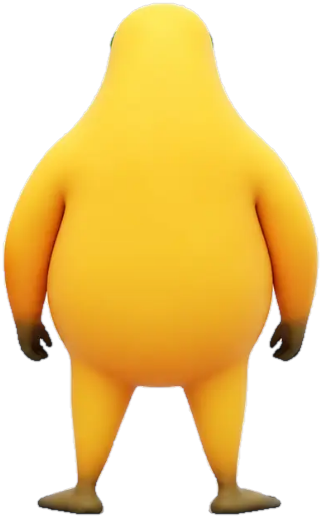
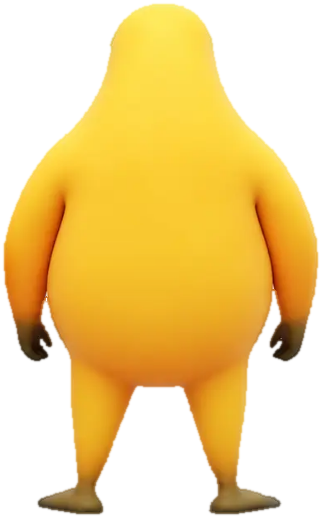
fix(deskpet): 修打滚身体残缺与白 halo、清掉三张皮肤的手指缝白点、去掉右键焦点环
- 打滚：阴影泛洪顺着肚皮上缘高光咬进身体（帧 046 吃掉 4663 个非背景像素，
  第二块 600px 正在肚皮顶缘）。加 SHADOW_BAND=70 只允许贴着角色最低点往上
  70 行以内当阴影吃；帧 046 非背景却透明 5748→4522、帧 030 6121→4827。
- 白 halo：alpha<0.02 的像素还留着原图纯白 RGB，LANCZOS 逐通道插值把白混进边缘。
  新增 fill_transparent() 把透明区 RGB 迭代填成邻域身体色；预乘缩放试过不能用。
- 三张皮肤：手指缝里混进的纯白背景（正面 10px、背面 3px、侧面 0），
  判据只看绝对颜色 min>230 & chroma<25 & 面积<300（奶白肚皮靠面积兜底）。
- 右键焦点环：用户截图那条线 238x313 物理像素 = 窗口 190x250 x DPR 1.25，
  颜色 (229,151,0) = 本机 DWM 强调色 0xFFD47800。petwin.css 加 outline:none。
- e2e 新增 P9j 三条，其中 P9j-3 是负对照（删掉规则后焦点环必须真的回来）。

diff --git a/src/renderer/src/petwin/petwin.css b/src/renderer/src/petwin/petwin.css
@@ -43,6 +43,15 @@ body,
   cursor: grabbing;
 }
 
+/* 去掉键盘焦点环（2026-11-12 用户反馈「一右键就多出来一个边框」）。
+   根节点是 role="button" + tabIndex={0}，右键时它的父级拿到焦点，
+   浏览器默认给 :focus-visible 画一圈 outline——在透明窗口里就是一圈方框，
+   看起来像桌宠被框住了。这个窗口没有键盘操作，焦点环没有意义。 */
+.petwin:focus,
+.petwin:focus-visible {
+  outline: none;
+}
+
 /* 皮肤包装层：铺满窗口，让里面的 SVG 撑满。
    与 styles.css 的 .pet-wrap 同源（那边只管 inline-flex 布局，尺寸归各处自己定）。 */
 .petwin .pet-wrap {

diff --git a/docs/状态.md b/docs/状态.md
@@ -6,6 +6,8 @@
 
 ## 一句话状态
 
+**2026-11-12 23:05（用户实测反馈的四条里前三条已修：打滚「身体残缺」、三张皮肤白缝、右键多出的边框，分支 `deskpet-action2`，未合并、未打包）**——用户（m03693）原话：「我一右键就会多出来一个边框；还有就是打滚扣的不好，身体有残缺；我现在又发现了一个之前没发现的，截图二，就是原版的图片上手部和手和肚皮的夹缝都有一点白色背景没扣好；还有就是我刚刚截图，灵动岛没有信息提示弹出」。**①打滚「身体残缺」不是帧被裁、也不是连通块被切成两块**（逐项排除过：82 帧贴边只有 3~27px 边缘细条、`alpha>0.5` 连通块无一帧有第二个 >50px 块、内部透明洞 0 像素、严判前景只被抠掉 0.05%、封闭背景块 ≥40px 的 0 个）。**真因**：阴影判据 `passable = bg | (ch<45 & mn>160 & mn<232)` 从四边泛洪，会**顺着肚皮上缘「亮且低彩度」的高光一路咬进身体**——帧 046 被吃掉 4663 个非背景像素，第二大的块 **600px 就在 `x220–342 y374–403`**，成品上正是「被啃掉一口」。**修法**：加 `SHADOW_BAND = 70`，只允许「贴着角色最低点往上 70 行」以内当阴影吃；帧 046「非背景却透明」**5748 → 4522**、帧 030 **6121 → 4827**。**②白 halo**：`cut()` 只对 `0.02<alpha<0.995` 窄带去污染、**alpha 更小的像素 RGB 仍是原图纯白**，而 `resize(LANCZOS)` 是逐通道插值（非预乘），白就被混进边缘。修法：新增 `fill_transparent(rgb, alpha, r=7, iters=3)` 把透明区 RGB 迭代填成邻域身体色。**预乘 alpha 缩放这条路试过、不能用**（白边像素 0→161）。**③三张皮肤的白缝**：`bean-photo.png` 里「不透明且 min>235 & chroma<20」只有 **7px**（`x36–272 y338–343`，正是左右手与肚皮之间那两条缝），侧图背图都是 0；把点放大到 12× 对照原图，确认**原图腋下本身就是一条白缝**（手臂与肚子之间背景透出），不是抠坏的。修法 `carve_photo_holes.py` 判据**只看绝对颜色不跟背景比**（`min>230 & chroma<25 & 面积<300`，奶白肚皮 7000+ 靠面积兜底），第一版拿「与透明区背景中位色差<6」只挖到 2 像素就收工——因为成品 PNG 的透明区虽然 alpha=0、**RGB 还留着身体黄**。改后：正面挖 10px、背面 3px、侧面 0。**④右键那圈边框 = Chromium 焦点环**：用户截图里那条线量出来 `x30..267 / y36..348`，正好 **238×313 物理像素** = 窗口 190×250 DIP × DPR 1.25；线色 **(229,151,0)**，本机 `DWM\AccentColor = 0xFFD47800` → RGB(212,120,0)。修法是 `petwin.css` 加 `.petwin:focus, .petwin:focus-visible { outline: none }`。**[实测] 三轮探针**：原始状态无边框、真鼠标点一下仍无边框、`deleteRule` 删掉那条 CSS 再按 Tab → `focusVisible=true outlineStyle=auto outlineColor=rgb(229,151,0)`、边框真的出现（`top54 bot113 left76`），**颜色与用户截图逐位相同**。**e2e 新增 P9j 三条**：源码断言规则存在 / Tab 后 computed `outlineStyle==='none'` / **负对照**（删规则后焦点环必须回来且颜色匹配 `229|212`）——只断言「现在没有边框」是假绿，删掉整段 CSS 也能过。**[实测]** `npm run typecheck` EXIT=0、`npm run build` EXIT=0；`e2e-deskpet-out` **PASS（72 过 / 0 败）**；回归 `e2e-deskpet` 33/0、`e2e-head-order` 14/0、`e2e-collapse-order` 22/0、`e2e-settings-shell` 51/0。**回归踩的坑**：`e2e-m2` 首次 FAIL，根因不是代码——`.tmp/e2e-userdata/.../prefs.json` 里 `petMode` 停在 `window`（上一批 e2e 留下的），岛仔按设计不渲染；改回 `island` 后立刻 PASS。**共享隔离目录的 e2e 之间会互相污染 `petMode`**。**未做**：用户第四条「灵动岛没有信息提示弹出」本轮只读了代码（`notifyStore.ts:185`、`clipboardStore.ts:75`、`notifyStore.ts:303` 有 `ScreenSketch: 'ms-screenclip:'`），**没有复现也没有修复**。SPEC 见 `docs/Spec/SPEC-deskpet-action.md` 第 7.10 节。
+
 **2026-11-12 21:30（第二支动作「打滚」已实现并通过自检，分支 `deskpet-action2`，未合并、未打包）**——用户（m03076）原话「就做挥手打滚」。**挥手没做成**：把整段 19.1 秒视频按 10fps 抽成 176 帧逐帧扫「手抬到最高点」，最高只有 y=364 的 0.2 秒一抬，而且是笑的时候抬手捂头的一部分，**没有一帧是来回摆动的挥手**，这支必须另找素材或 AI 生成。**打滚做成了**：同一段视频 12.0–18.4 秒「倒地→打滚→起身」，15fps 抽 96 帧，可用 **1–82**（83–96 是同一张站姿重复 14 遍，去掉），抠图后压成 **82 帧四行 sprite sheet `src/renderer/src/assets/pet/bean-roll.webp`（3960×880、24 列 × 4 行、每格 165×220、WebP q84、351330 B）**。**打滚不能照抄大笑的抠图参数（本轮真正难点）**：①躺下时肚皮正对光源高光亮到 `(254,235,203)`（min=203、chroma=41），会落进大笑用的宽松阈值里被整块挖掉，`BG_CHROMA` 必须 52→**20**、`BG_MIN` 170→**235**；②躺下时地面阴影与前景区连成一片，要单独从四边沿「低彩度+中低亮度」泛洪去掉（只吃前景 2.02%）；③脚边白渣用 `keep_largest` 只留最大连通块（897 像素/80 帧 → 319/62）。**代码接法**：`skinPhoto.tsx` 把「动作→素材参数」抽成 `ACTION_SPECS` 表并新增 `actionDurationMs(action)`，**不共用 `ACTION_DURATION_MS` 常量**——大笑 108/15=7.2 秒、打滚 82/15≈5.5 秒，写死一个会让短的空站 1.7 秒（P9i-4 守这条）。触发入口放右键菜单「再来一次大笑」/「打个滚」，走 `win.webContents.send('pet:action', ...)` + 渲染层 `onPetAction`。**[实测]** `npm run typecheck` EXIT=0、`npm run build` EXIT=0（`bean-roll-BgY4YbMM.webp 351.33 kB`）；`e2e-deskpet-out` **PASS（69 过 / 0 败）**，新增 P9i-0~P9i-7 八条；回归 `e2e-deskpet` 33/0、`e2e-m2` PASS、`e2e-head-order` 14/0、`e2e-collapse-order` 22/0、`e2e-settings-shell` 51/0（`.tmp/regress-roll.log`）。**踩到的假红**：P9i-0 首次读出 `laugh`，因为上一条测试刚在胶囊皮肤上点过——胶囊不渲染动作层但状态机照旧挂 7.2 秒定时器；**判「有没有在播」必须看 `data-pet-action`，不能看 DOM 里有没有动作层**。SPEC 见 `docs/Spec/SPEC-deskpet-action.md` 第 7.9 节。**未验证**：打滚的真人观感、两支动作连着点的手感。
 
[1 lines of base64/hex data omitted]

diff --git a/docs/Spec/SPEC-deskpet-action.md b/docs/Spec/SPEC-deskpet-action.md
@@ -270,3 +270,110 @@ P9h-1 触发的那次笑要 7.2 秒才结束。第一版把「拖一把不该触
 **未验证**：①打滚播起来真人看是什么观感（尤其躺下变宽后 190 宽的窗口够不够，
 现在按 140 单位高度换算下来格宽约 105，窗口内左侧居中，理论不裁）②两支动作连着点会不会有手感问题
 （代码上会先清旧定时器，但没真人试）。
+
+### 7.10 打滚「身体残缺」+ 三张皮肤的白缝 + 右键多出边框（第七轮，用户实测反馈后修）
+
+用户 2026-11-12 原话：「我一右键就会多出来一个边框；还有就是打滚扣的不好，身体有残缺；
+我现在又发现了一个之前没发现的，截图二，就是原版的图片上手部和手和肚皮的夹缝都有一点白色背景没扣好；
+还有就是我刚刚截图，灵动岛没有信息提示弹出」。前三条本轮已处理，第四条另行排查。
+
+**（一）打滚「身体残缺」= 阴影泛洪顺着肚皮高光咬进身体**
+
+不是帧被裁，也不是连通块被切。逐项排除过的：82 帧逐帧查贴边（只有 3~27px 的边缘细条）、
+`alpha>0.5` 连通块无一帧出现第二个 >50px 的块、内部透明洞 0 像素、
+用 `(ch>35)|(mn<200)` 判严前景只被抠掉 0.05%、封闭背景块 ≥40px 的 0 个。
+
+真因在阴影判据：
+```python
+passable = bg | ((ch < SHADOW_CHROMA_MAX) & (mn > SHADOW_MIN_FLOOR) & (mn < SHADOW_MIN_CEIL))
+reach = flood(passable)
+```
+它从四边泛洪，会**顺着肚皮上缘「亮且低彩度」的高光一路咬进身体**。帧 046 被吃掉的非背景像素
+**4663 个**（RGB 中位 `[235,224,211]`），第二大的块 **600px 就在 `x220–342 y374–403`**，
+成品上正是「像被啃掉一口」的缺口。修法是给阴影判据加**地面带限制**：
+```python
+SHADOW_BAND = 70
+fg_ys = np.nonzero(~bg)[0]
+band_top = max(0, int(fg_ys.max()) - SHADOW_BAND) if len(fg_ys) else 0
+shadow_ok[:band_top, :] = False   # 只允许贴着角色最低点往上 70 行以内当阴影
+```
+效果：帧 046「非背景却透明」**5748 → 4522**、帧 030 **6121 → 4827**。
+
+**（二）白 halo = 透明区还留着纯白 RGB**
+
+`cut()` 只对 `0.02<alpha<0.995` 的窄带去污染，**alpha 更小的像素 RGB 仍是原图的纯白**；
+`resize(..., LANCZOS)` 是逐通道插值、非预乘 alpha，白就被混进边缘。
+修法是新增 `fill_transparent(rgb, alpha, r=7, iters=3)`：把透明区的 RGB 迭代填成邻域身体色，
+再缩放就没有白可混。**预乘 alpha 缩放这条路走过、不能用**——实测白边像素从 0 涨到 161。
+
+**（三）三张原图皮肤的「夹缝白」**
+
+先量：`bean-photo.png` 里「不透明且 min>235 & chroma<20」只有 **7px**（`x36–272 y338–343`，
+正是左右手与肚皮之间那两条缝）；侧图、背图都是 0。把这几点放大到 12× 对照原图，
+确认原图腋下本身就是一条白缝（手臂与肚子之间背景透出），不是抠坏了。
+
+修法是 `.tmp/niwa/carve_photo_holes.py`，判据**只看绝对颜色，不跟背景比**：
+```python
+HOLE_MIN_CHANNEL = 230   # min 通道
+HOLE_CHROMA_MAX  = 25    # chroma
+MAX_HOLE         = 300   # 奶白肚皮 7000+，靠这条兜一层
+```
+第一版拿「与透明区背景中位色的差 < 6」当判据，只挖到 2 像素就收工——
+因为成品 PNG 的透明区虽然 alpha=0，RGB 却还留着**身体黄**（算出来 bgc=[245,219,111]），
+真正的白缝离它 126，全被挡在门外。改判据后：正面挖 **10px**、背面挖 **3px**、侧图 0。
+
+**（四）右键多出的那圈边框 = Chromium 焦点环**
+
+用户截图（m03690）里那圈线量出来是 `x30..267 / y36..348`，正好 **238×313 物理像素**，
+等于宠物窗口 190×250 DIP × `devicePixelRatio 1.25`；线的颜色 **(229,151,0)**，
+而本机 `HKCU\Software\Microsoft\Windows\DWM\AccentColor = 0xFFD47800` → RGB(212,120,0)。
+**矩形严丝合缝贴合窗口 + 用系统强调色画 = Chromium 自 100 版起的 `:focus-visible` 焦点环。**
+
+修法（`src/renderer/src/petwin/petwin.css`）：
+```css
+.petwin:focus,
+.petwin:focus-visible {
+  outline: none;
+}
+```
+**为什么该关掉**：这个窗口没有键盘操作，焦点环没有意义；而且它是无边框透明窗口，
+环一出来就等于给桌宠套了个方框。
+
+**验证手法（值得记）**：脚本里 `el.focus()` 不会让 `:focus-visible` 为真（Chromium 认为那是
+鼠标交互），**必须用 CDP 派发一次真实的 Tab 键**。负对照也不能用 `<style>` 注入
+（`pet.html` 的 CSP 会拦），要走 CSSOM 的 `sheet.deleteRule`。实测三轮：
+
+| 轮次 | 状态 | 边框 |
+|---|---|---|
+| 原始（未激活） | `focus=false focusVisible=false outlineStyle=none` | 无 |
+| 真鼠标点一下让窗口激活 | 同上 | 无 |
+| **删掉 CSS 那条规则 + Tab** | `focusVisible=true outlineStyle=auto outlineColor=rgb(229,151,0)` | **出现**（琥珀色边框计数 top48/bot113/left76） |
+
+第三轮的颜色 `rgb(229,151,0)` 与用户截图里 `(229,151,0)` **逐位相同**，这是「就是它」的硬证据。
+
+**全量复检**：`bean-roll.webp` 3960×880 / 82 帧 / 每格 165×220 / WebP q84 /
+**343328 B**；整张 sheet 严格白残留 **3px**、边缘亮带（halo 指标）**0px**。
+三张皮肤：正面 130918 B、背面 112981 B、侧面不变 98175 B。
+
+**e2e 新增 P9j 三条**（`scripts/e2e-deskpet-out.mjs`）：
+- `P9j-1` 源码断言 `petwin.css` 里有 `.petwin:focus { outline: none }`
+- `P9j-2` 派发 Tab 后 `:focus-visible` 为真且 computed `outlineStyle === 'none'`
+- `P9j-3` **负对照**：`deleteRule` 删掉那条规则后焦点环真的回来，且颜色匹配 `229|212`
+
+**为什么 P9j-3 必不可少**：只断言「现在没有边框」属于假绿——把整段 CSS 删掉也能过。
+必须有「删掉它就红」的对照，这条断言才有判别力。
+
+**验证（[实测]）**：`npm run typecheck` EXIT=0、`npm run build` EXIT=0
+（`bean-roll-BN8i1gt5.webp 343.32 kB`、`bean-photo-B6LBFDhs.png 130.91 kB`、
+`bean-photo-back-Bok3ErUR.png 112.98 kB`）；`e2e-deskpet-out` **PASS（72 过 / 0 败）**；
+回归 `e2e-deskpet` 33/0、`e2e-head-order` 14/0、`e2e-collapse-order` 22/0、
+`e2e-settings-shell` 51/0。
+
+**回归里踩的一个坑**：`e2e-m2` 首次 FAIL「岛仔挂载超时」。根因不是代码——
+`.tmp/e2e-userdata/lingdong-island/prefs.json` 里 `petMode` 停在 `window`（上一批 e2e 留下的），
+岛仔按设计不渲染。把该值改回 `island` 后立刻 PASS。
+**教训**：共享隔离目录的 e2e 之间会互相污染 `petMode`，跑完整套要么顺序固定、要么跑前重置。
+
+**未验证**：①打滚修完后真人在深色桌面上看还有没有观感问题
+②三张皮肤各挖掉 10/3 像素后边缘有没有变得不自然（量太小，肉眼看不出）
+③「灵动岛没有信息提示弹出」这一条本轮完全没查。
